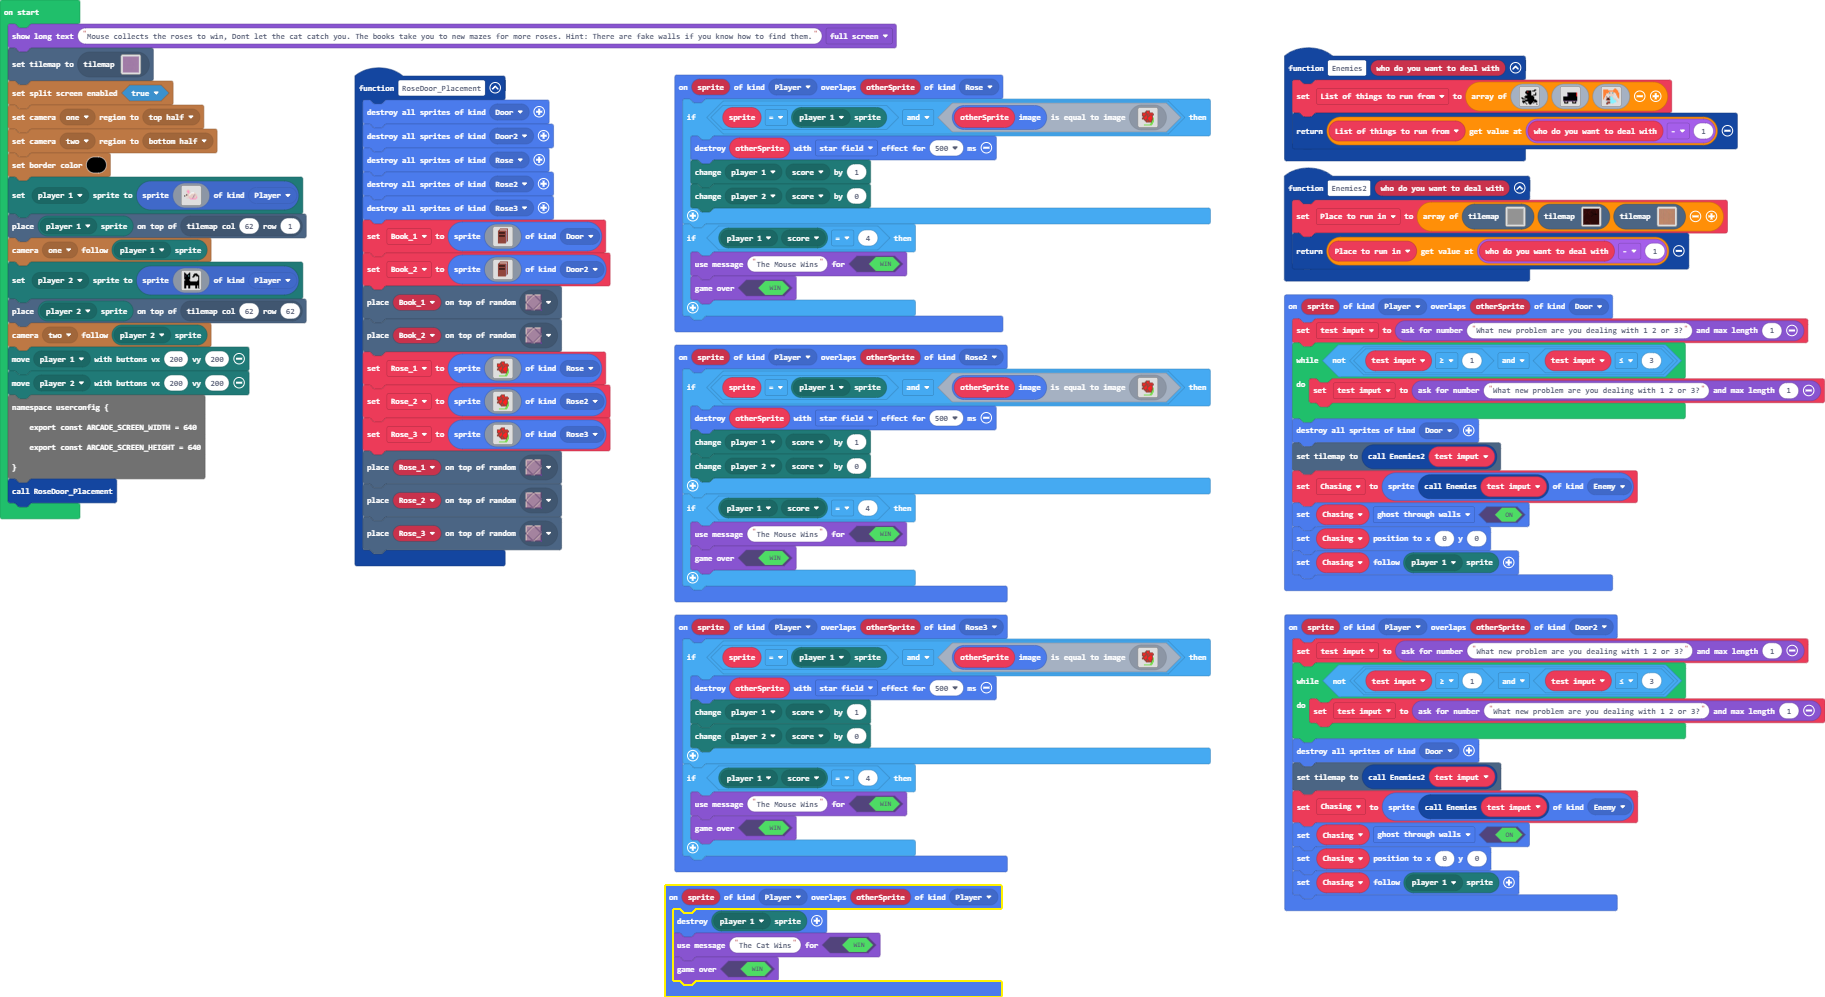
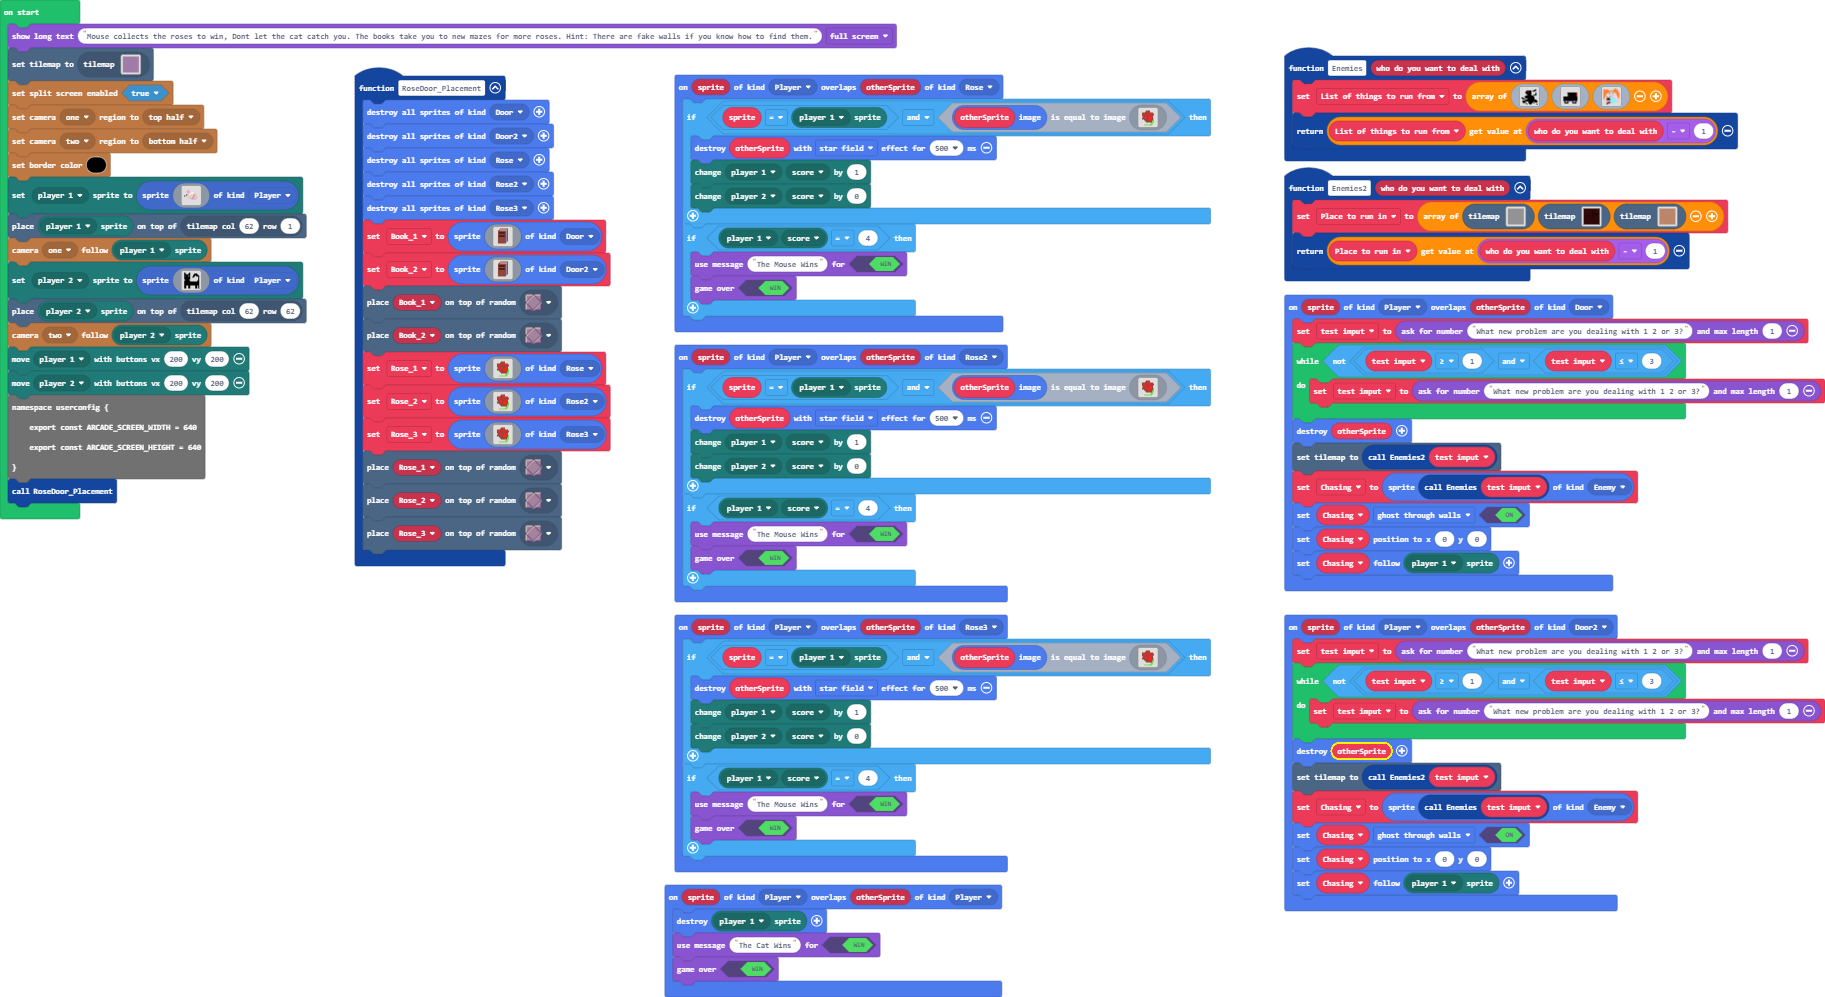
Update main.blocks, main.ts

diff --git a/main.ts b/main.ts
@@ -124,7 +124,7 @@ sprites.onOverlap(SpriteKind.Player, SpriteKind.Door, function (sprite, otherSpr
     while (!(test_imput >= 1 && test_imput <= 3)) {
         test_imput = game.askForNumber("What new problem are you dealing with 1 2 or 3?", 1)
     }
-    sprites.destroyAllSpritesOfKind(SpriteKind.Door)
+    sprites.destroy(otherSprite)
     tiles.setCurrentTilemap(Enemies2(test_imput))
     Chasing = sprites.create(Enemies(test_imput), SpriteKind.Enemy)
     Chasing.setFlag(SpriteFlag.GhostThroughWalls, true)
@@ -275,7 +275,7 @@ sprites.onOverlap(SpriteKind.Player, SpriteKind.Door2, function (sprite, otherSp
     while (!(test_imput >= 1 && test_imput <= 3)) {
         test_imput = game.askForNumber("What new problem are you dealing with 1 2 or 3?", 1)
     }
-    sprites.destroyAllSpritesOfKind(SpriteKind.Door)
+    sprites.destroy(otherSprite)
     tiles.setCurrentTilemap(Enemies2(test_imput))
     Chasing = sprites.create(Enemies(test_imput), SpriteKind.Enemy)
     Chasing.setFlag(SpriteFlag.GhostThroughWalls, true)
